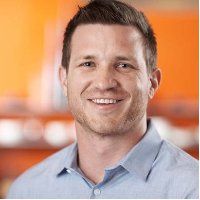
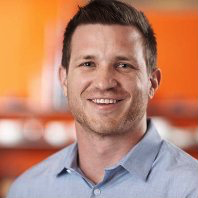
crop and format headshot border

diff --git a/index.html b/index.html
@@ -59,9 +59,9 @@
 	</div>
 
 	<div id="mainbox">
-		<img id="headshot" src="imgs/headshot.jpg">
+		<img id="bigheadshot" src="imgs/headshot.jpg">
 		<p >
-		It was November. Although it was not yet late, the sky was dark when I turned into Laundress Passage. Father had finished for the day, switched off the shop lights and closed the shutters; but so I would not come home to darkness he had left on the light over the stairs to the flat. Through the glass in the door it cast a foolscap rectangle of paleness onto the wet pavement, and it was while I was standing in that rectangle, about to turn my key in the door, that I first saw the letter. Another white rectangle, it was on the fifth step from the bottom, where I couldn't miss it.
+		Sample Text: It was November. Although it was not yet late, the sky was dark when I turned into Laundress Passage. Father had finished for the day, switched off the shop lights and closed the shutters; but so I would not come home to darkness he had left on the light over the stairs to the flat. Through the glass in the door it cast a foolscap rectangle of paleness onto the wet pavement, and it was while I was standing in that rectangle, about to turn my key in the door, that I first saw the letter. Another white rectangle, it was on the fifth step from the bottom, where I couldn't miss it.
 		</p>
 
 		<p>

diff --git a/styles/default.css b/styles/default.css
@@ -64,9 +64,11 @@ header{
 	border-radius: 5px;
 }
 
-#headshot{
+#bigheadshot{
 	width: 150px;
 	height: 150px;
+	border: 1px solid #BDBCB9;
+	border-radius: 5px;
 }
 
 #biobox{
